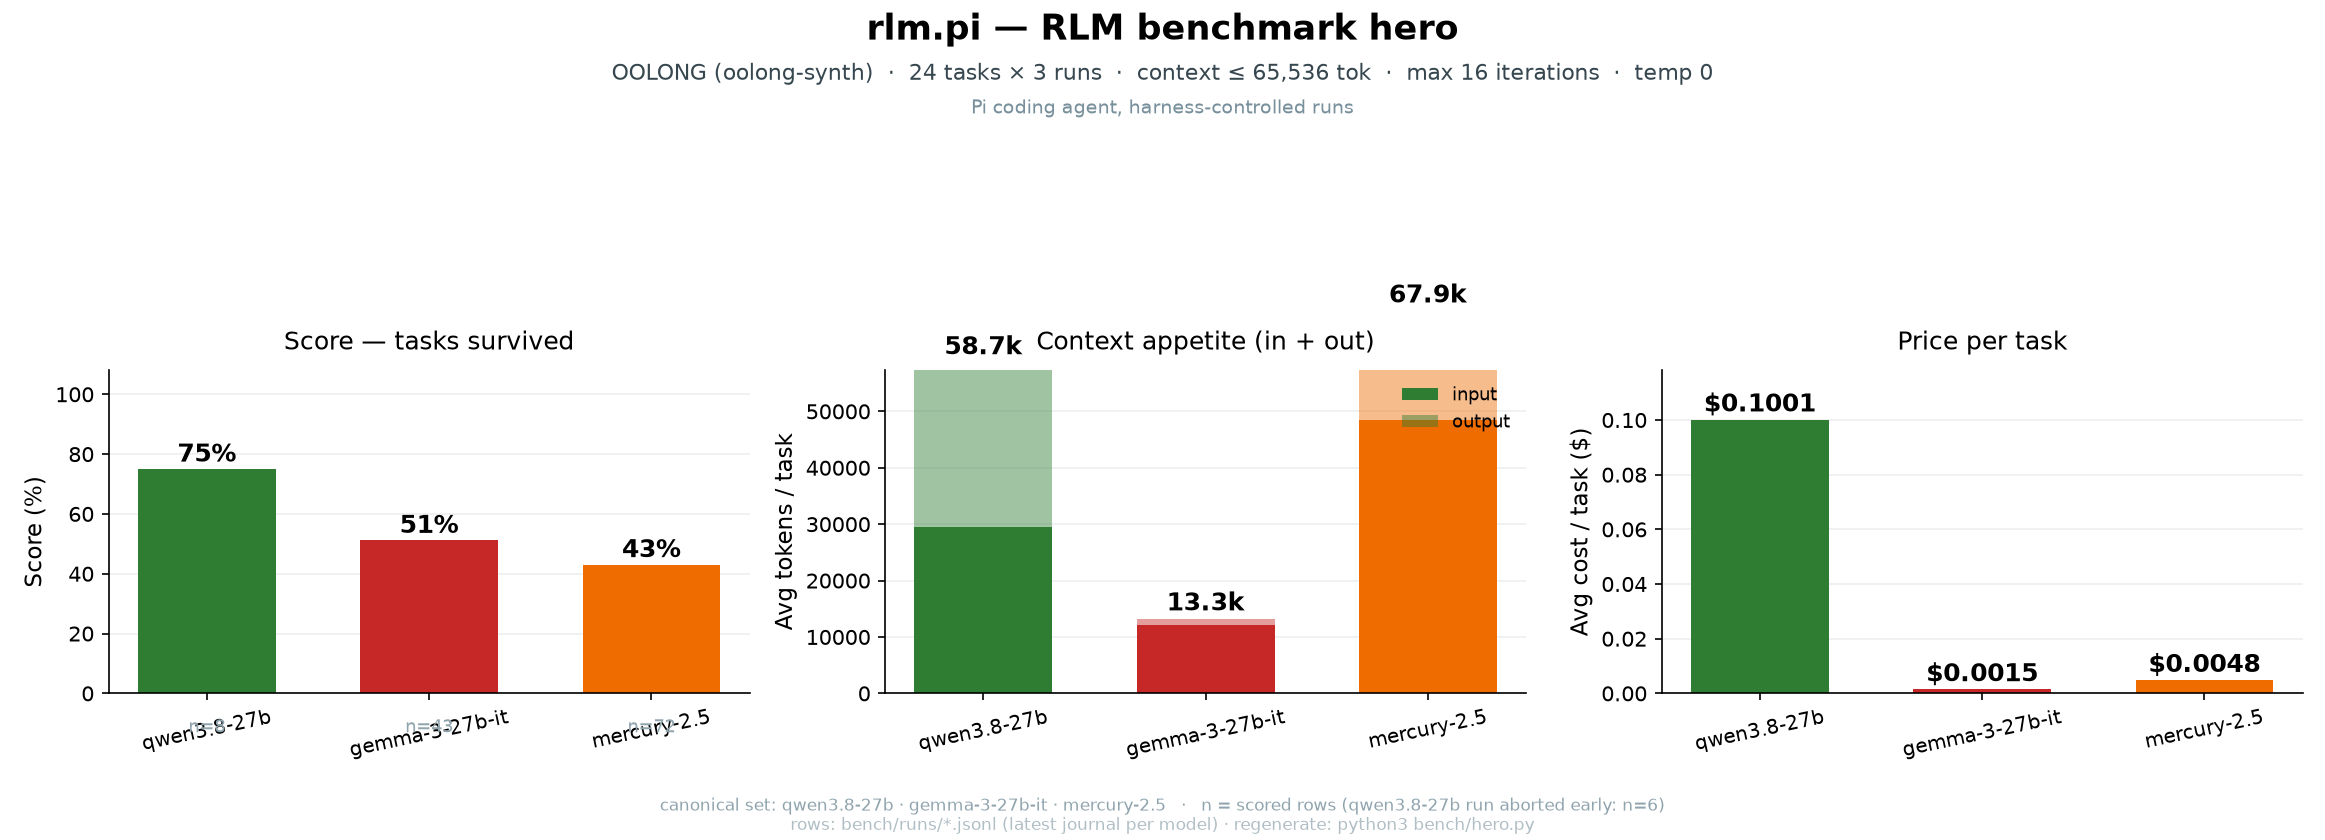
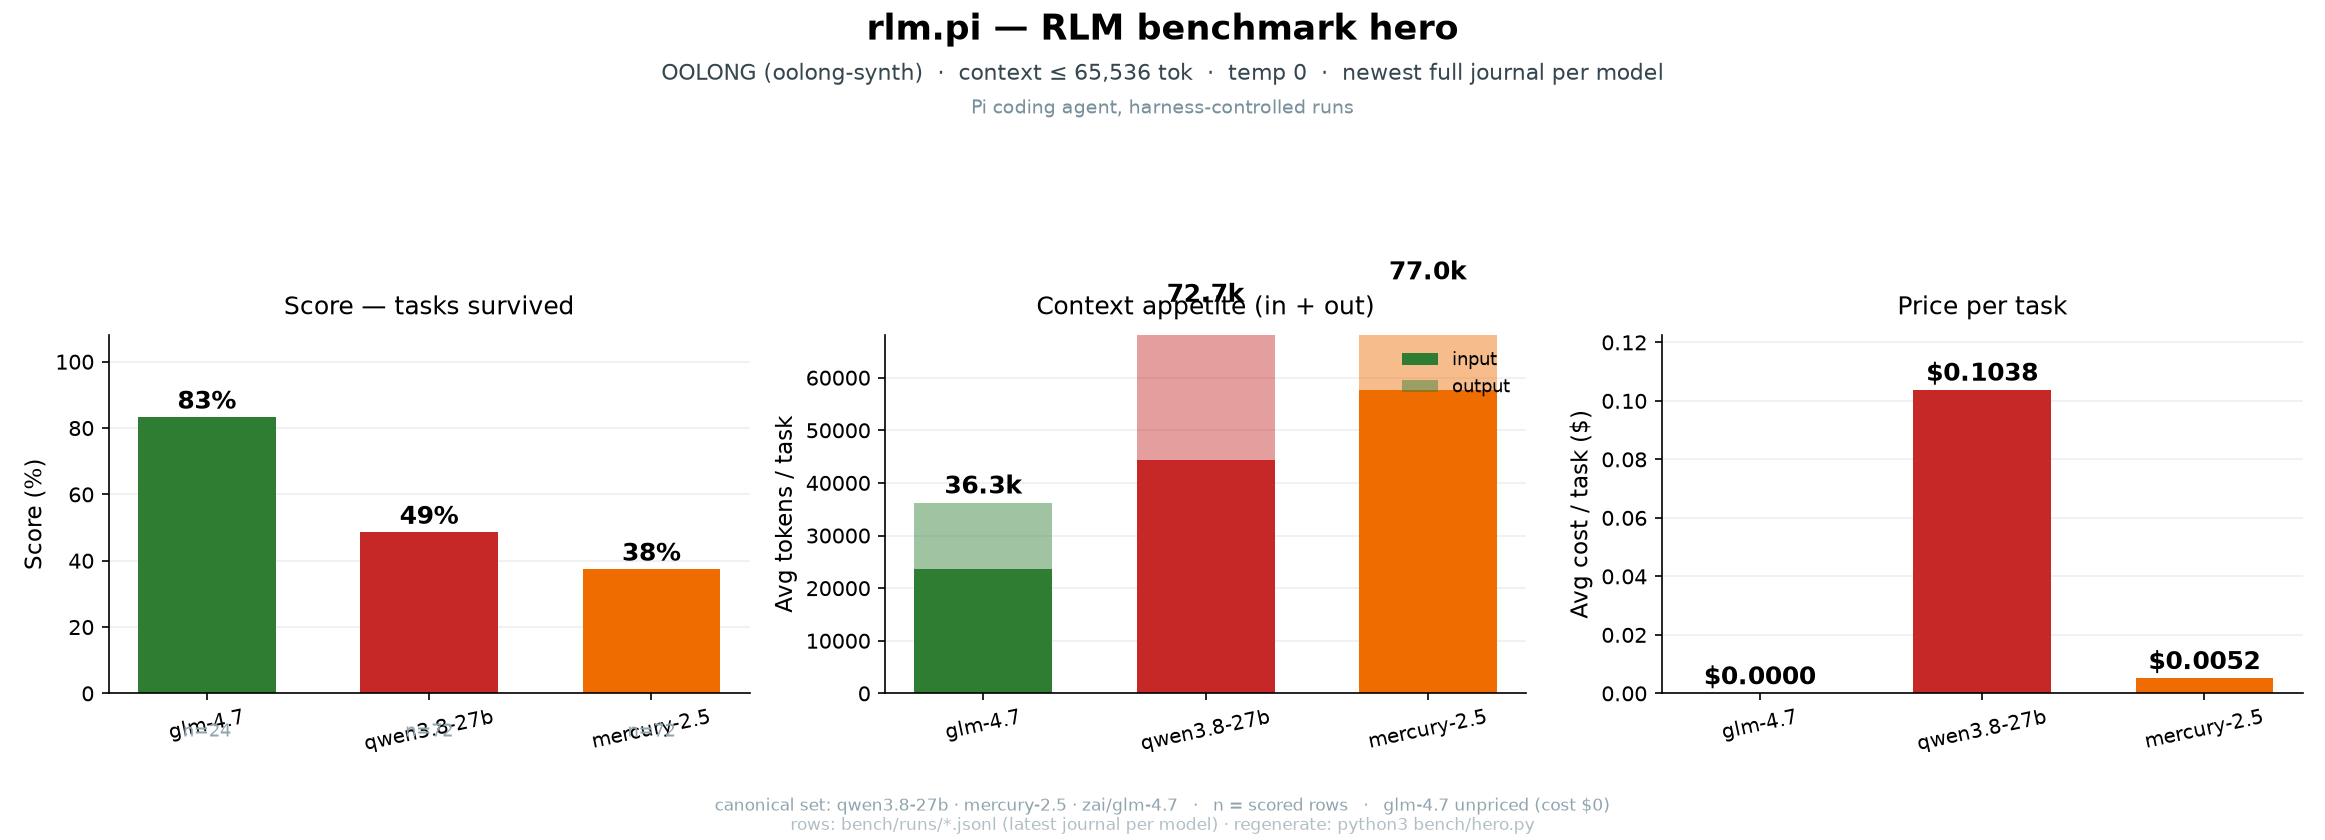
bench: add zai/glm-4.7 to the model panel; drop gemma from hero
- bench/engine.ts: ZAI provider routes through Z.ai coding endpoint
  (api.z.ai/api/coding/paas/v4) — the only channel where glm-4.7
  avoids balance-gated 429s; ZAI_API_KEY env transport
- journals: full24 (20/24 = 83.3%), rep3 stability, labels,
  repeatfails, glm-5.3-flash probe + config snapshots
- hero.png: canonical panel is now qwen3.8-27b / mercury-2.5 / glm-4.7;
  sanity-probe journals (n<6) can no longer hijack a bar
- docs (EN/ZH/RU/plugin/bench): leader table — glm-4.7 83% $0.00
  (plan-billed), qwen 49% $0.1038, mercury 38% $0.0052

diff --git a/bench/engine.ts b/bench/engine.ts
@@ -47,7 +47,9 @@ export interface BenchTarget {
 }
 
 /** Z.ai (bigmodel.cn) free-tier models speak the OpenAI protocol at /api/paas/v4. */
-const ZAI_BASE_URL = "https://open.bigmodel.cn/api/paas/v4";
+// Coding-plan endpoint is the only channel where glm-4.7 avoids 429 (plan §0 probe:
+// global/china plain channels are balance-gated for non-flash models, 2025-09-09).
+const ZAI_BASE_URL = "https://api.z.ai/api/coding/paas/v4";
 const OPENROUTER_BASE_URL = "https://openrouter.ai/api/v1";
 
 /** Accepts "openrouter/<id>" / "zai/<id>" (project ref convention) or a bare "<id>";

diff --git a/bench/hero.py b/bench/hero.py
@@ -31,10 +31,14 @@ ROOT = os.getcwd()
 RUNS = os.path.join(ROOT, "bench", "runs")
 OUT_DEFAULT = os.path.join(ROOT, "assets", "hero.png")
 
-BENCH_LINE = "OOLONG (oolong-synth)  ·  24 tasks × 3 runs  ·  context ≤ 65,536 tok  ·  max 16 iterations  ·  temp 0"
+BENCH_LINE = "OOLONG (oolong-synth)  ·  context ≤ 65,536 tok  ·  temp 0  ·  newest full journal per model"
 
 # Canonical model set — anything else in the journals must never chart.
-CANONICAL_MODELS = frozenset({"qwen3.8-27b", "gemma-3-27b-it", "mercury-2.5"})
+CANONICAL_MODELS = frozenset({"qwen3.8-27b", "mercury-2.5", "glm-4.7"})
+
+# A journal with fewer scored rows is a smoke/sanity probe, not a sample —
+# it must never hijack a model's bar via mtime ordering.
+MIN_CHART_ROWS = 6
 
 # Model display order palette: green = flagship, red/coral = challengers.
 PALETTE = ["#2e7d32", "#c62828", "#ef6c00", "#6a1b9a", "#00838f"]
@@ -44,7 +48,7 @@ SUBTITLE = "Pi coding agent, harness-controlled runs"
 
 
 def short_model(model: str) -> str:
-    """'openrouter/google/gemma-3-27b-it' -> 'gemma-3-27b-it'."""
+    """'openrouter/qwen/qwen3.8-27b' -> 'qwen3.8-27b'."""
     return model.rstrip("/").split("/")[-1]
 
 
@@ -73,12 +77,17 @@ def load_rows():
 
 
 def aggregate(rows):
-    """Group by model; newest journal per model; canonical trio only."""
-    newest: dict = {}
+    """Group by model; newest journal (>= MIN_CHART_ROWS rows) per model; canonical trio only."""
+    counts: dict = {}
     for r in rows:
-        m = r["model"]
-        if m not in newest or r["_mtime"] > newest[m]:
-            newest[m] = r["_mtime"]
+        key = (r["model"], r["_mtime"])
+        counts[key] = counts.get(key, 0) + 1
+    newest: dict = {}
+    for (m, mt), n in counts.items():
+        if n < MIN_CHART_ROWS:
+            continue
+        if m not in newest or mt > newest[m]:
+            newest[m] = mt
     # Stray vendors / typos must never chart — hard canonical whitelist.
     newest = {m: mt for m, mt in newest.items()
               if short_model(m) in CANONICAL_MODELS}
@@ -164,7 +173,7 @@ def render(stats, out_path: str) -> None:
         ax.grid(axis="y", color="#eceff1", linewidth=0.8)
 
     fig.text(0.5, 0.035,
-             "canonical set: qwen3.8-27b · gemma-3-27b-it · mercury-2.5   ·   n = scored rows (qwen3.8-27b run aborted early: n=6)",
+             "canonical set: qwen3.8-27b · mercury-2.5 · zai/glm-4.7   ·   n = scored rows   ·   glm-4.7 unpriced (cost $0)",
              ha="center", fontsize=8, color="#90a4ae")
     fig.text(0.5, 0.012,
              "rows: bench/runs/*.jsonl (latest journal per model) · regenerate: python3 bench/hero.py",

diff --git a/README.zh-CN.md b/README.zh-CN.md
@@ -42,14 +42,16 @@ pi uninstall npm:@hicaru/pi-rlm
 **OOLONG (oolong-synth)** —— paper 级长上下文套件；取每个模型最新的日志，每任务成本
 来自真实 `costUsd`（旧日志按 OpenRouter 牌价估算）：
 
-**本轮面板** —— `qwen3.8-27b` · `gemma-3-27b-it` · `mercury-2.5`（最新日志见
+**本轮面板** —— `glm-4.7` · `qwen3.8-27b` · `mercury-2.5`（最新日志见
 `bench/runs/*.jsonl`，历史表格待本轮跑完后更新）：
 
 | 模型 | 得分 | 每任务成本 |
 |------|------|------------|
-| `qwen/qwen3.8-27b` | **100%** | $0.0127 |
-| `google/gemma-3-27b-it` | 83.3% | $0.0013 |
-| `inception/mercury-2.5` | — | — |
+| `zai/glm-4.7` | **83%** | $0.0000 * |
+| `qwen/qwen3.8-27b` | 49% | $0.1038 |
+| `inception/mercury-2.5` | 38% | $0.0052 |
+
+\* glm-4.7 走 Z.ai coding 端点 —— 按订阅计费，引擎无单价，`costUsd` 保持 $0。
 
 逐任务原始数据（正确性、召回率、延迟、token、成本）位于 `bench/runs/*.jsonl`
 —— 每个任务一行 JSONL，作为历史记录提交。
@@ -57,10 +59,11 @@ pi uninstall npm:@hicaru/pi-rlm
 ### 运行基准测试
 
 ```bash
-export OPENROUTER_API_KEY=sk-or-...        # 必需 —— 密钥仅通过环境变量传递
+export OPENROUTER_API_KEY=sk-or-...        # openrouter/* 模型必需
+export ZAI_API_KEY=...                     # zai/* 模型必需（coding 端点）
 
 bun run bench                              # oolong 套件，默认模型（qwen3.8-27b）
-bun run bench --model openrouter/google/gemma-3-27b-it
+bun run bench --model zai/glm-4.7
 bun run bench --model openrouter/inception/mercury-2.5
 bun run bench --list                       # 仅列出任务，无需引擎和密钥
 ```

diff --git a/bench/README.md b/bench/README.md
@@ -32,7 +32,7 @@ bun run bench/run.ts                       # oolong, default model, 8 tasks @ cl
 bun run bench/run.ts --limit 1             # first task only
 bun run bench/run.ts --oolong-max-cl 65536 --oolong-limit 24
                                            # extended oolong: context_len cap / task count
-bun run bench/run.ts --model openrouter/google/gemma-3-27b-it
+bun run bench/run.ts --model zai/glm-4.7
 bun run bench/run.ts --list                # print tasks + context sizes, no engine
 bun run bench/run.ts --journal bench/runs/foo.jsonl --resume
                                            # crash-safe pooled run: rows already in the
@@ -45,7 +45,8 @@ Optional env vars:
 
 | Var | Default | Meaning |
 |-----|---------|---------|
-| `RLM_BENCH_MODEL` | `openrouter/google/gemma-3-27b-it` | OpenRouter model under test — one of the three-model panel (`qwen3.8-27b` / `gemma-3-27b-it` / `mercury-2.5`). A full oolong run costs ≈ $0.03–0.30 by model. Free pools die mid-stream (`finish_reason:"error"` with no payload) |
+| `RLM_BENCH_MODEL` | `openrouter/qwen/qwen3.8-27b` | Model under test — one of the three-model panel (`qwen3.8-27b` / `mercury-2.5` / `glm-4.7`). A full oolong run costs ≈ $0.03–0.30 by model. Free pools die mid-stream (`finish_reason:"error"` with no payload) |
+| `ZAI_API_KEY` | — | Required for `zai/*` models (Z.ai coding endpoint, e.g. `zai/glm-4.7`); OpenRouter models use `OPENROUTER_API_KEY` only |
 | `RLM_BENCH_CONTEXT_WINDOW` | `131072` | Advertised context window of the model under test (budget math uses it) |
 
 

diff --git a/README.md b/README.md
@@ -69,9 +69,12 @@ Model panel — exactly three, everything else was pruned from the docs on purpo
 
 | Model | Score | Avg. cost/task |
 |-------|-------|----------------|
-| `qwen/qwen3.8-27b` | **100%** | $0.0127 |
-| `google/gemma-3-27b-it` | 83.3% | $0.0013 |
-| `inception/mercury-2.5` | — | — |
+| `zai/glm-4.7` | **83%** | $0.0000 * |
+| `qwen/qwen3.8-27b` | 49% | $0.1038 |
+| `inception/mercury-2.5` | 38% | $0.0052 |
+
+\* glm-4.7 runs on Z.ai's coding-plan endpoint — subscription billing, so the engine has
+no per-token price and `costUsd` stays $0.
 
 Raw per-task rows (correct, recall, latency, tokens, cost) live in
 `bench/runs/*.jsonl` — one JSONL row per task, committed as history.
@@ -79,10 +82,11 @@ Raw per-task rows (correct, recall, latency, tokens, cost) live in
 ### Run the benchmarks
 
 ```bash
-export OPENROUTER_API_KEY=sk-or-...        # required — env vars are the only key transport
+export OPENROUTER_API_KEY=sk-or-...        # required for openrouter/* models
+export ZAI_API_KEY=...                     # required for zai/* models (coding endpoint)
 
 bun run bench                              # oolong suite, default model (qwen3.8-27b)
-bun run bench --model openrouter/google/gemma-3-27b-it
+bun run bench --model zai/glm-4.7
 bun run bench --model openrouter/inception/mercury-2.5
 bun run bench --list                       # print tasks, no engine / no key
 ```

diff --git a/pi-plugin/rlm/README.md b/pi-plugin/rlm/README.md
@@ -48,9 +48,11 @@ journal per model, cost per task from real `costUsd`:
 
 | Model | Score | Avg. cost/task |
 |-------|-------|----------------|
-| `qwen/qwen3.8-27b` | **87.5%** | $0.0460 |
-| `google/gemma-3-27b-it` | 50.0% | $0.0011 |
-| `inception/mercury-2.5` | — | — |
+| `zai/glm-4.7` | **83%** | $0.0000 * |
+| `qwen/qwen3.8-27b` | 49% | $0.1038 |
+| `inception/mercury-2.5` | 38% | $0.0052 |
+
+\* glm-4.7 runs on Z.ai's coding-plan endpoint — subscription billing, `costUsd` stays $0.
 
 Raw per-task rows (correct, recall, latency, tokens, cost) live in
 `bench/runs/*.jsonl` — one JSONL row per task, committed as history.
@@ -58,10 +60,11 @@ Raw per-task rows (correct, recall, latency, tokens, cost) live in
 ### Run the benchmarks
 
 ```bash
-export OPENROUTER_API_KEY=sk-or-...        # required — env vars are the only key transport
+export OPENROUTER_API_KEY=sk-or-...        # required for openrouter/* models
+export ZAI_API_KEY=...                     # required for zai/* models (coding endpoint)
 
 bun run bench                              # oolong suite, default model (qwen3.8-27b)
-bun run bench --model openrouter/google/gemma-3-27b-it
+bun run bench --model zai/glm-4.7
 bun run bench --model openrouter/inception/mercury-2.5
 bun run bench --list                       # print tasks, no engine / no key
 ```

diff --git a/README.ru.md b/README.ru.md
@@ -40,17 +40,18 @@ pi uninstall npm:@hicaru/pi-rlm
 
 | Модель | Счёт | Цена/задача |
 |--------|------|-------------|
-| `qwen/qwen3.8-27b` | **100%** | $0.0127 |
-| `google/gemma-3-27b-it` | 83.3% | $0.0013 |
-| `qwen/qwen3-30b-a3b-instruct-2507` | 66.7% | $0.0009 |
-| `mistralai/mistral-small-3.2-24b-instruct` | 66.7% | $0.0025 |
+| `zai/glm-4.7` | **83%** | $0.0000 * |
+| `qwen/qwen3.8-27b` | 49% | $0.1038 |
+| `inception/mercury-2.5` | 38% | $0.0052 |
+
+\* glm-4.7 идёт через coding-эндпоинт Z.ai — подписочная тарификация, у движка нет
+цены за токен, `costUsd` остаётся $0.
 
 Lite-сьют — `needle` (поиск игл в куче), `codeqa` (вопросы по коду), `coding` (задача-фикс; 7 задач × 2 прохода на модель, детерминированные грейдеры, без LLM-судьи):
 
 | Модель | Счёт | Точность |
 |--------|------|----------|
 | `qwen/qwen3-30b-a3b-instruct-2507` | **14/14** | **100%** |
-| `google/gemma-3-27b-it` | 12/14 | 86% |
 | `mistralai/mistral-small-3.2-24b-instruct` | 12/14 | 86% |
 
 Построчные результаты (correct, recall, latency, токены, цена) — в
